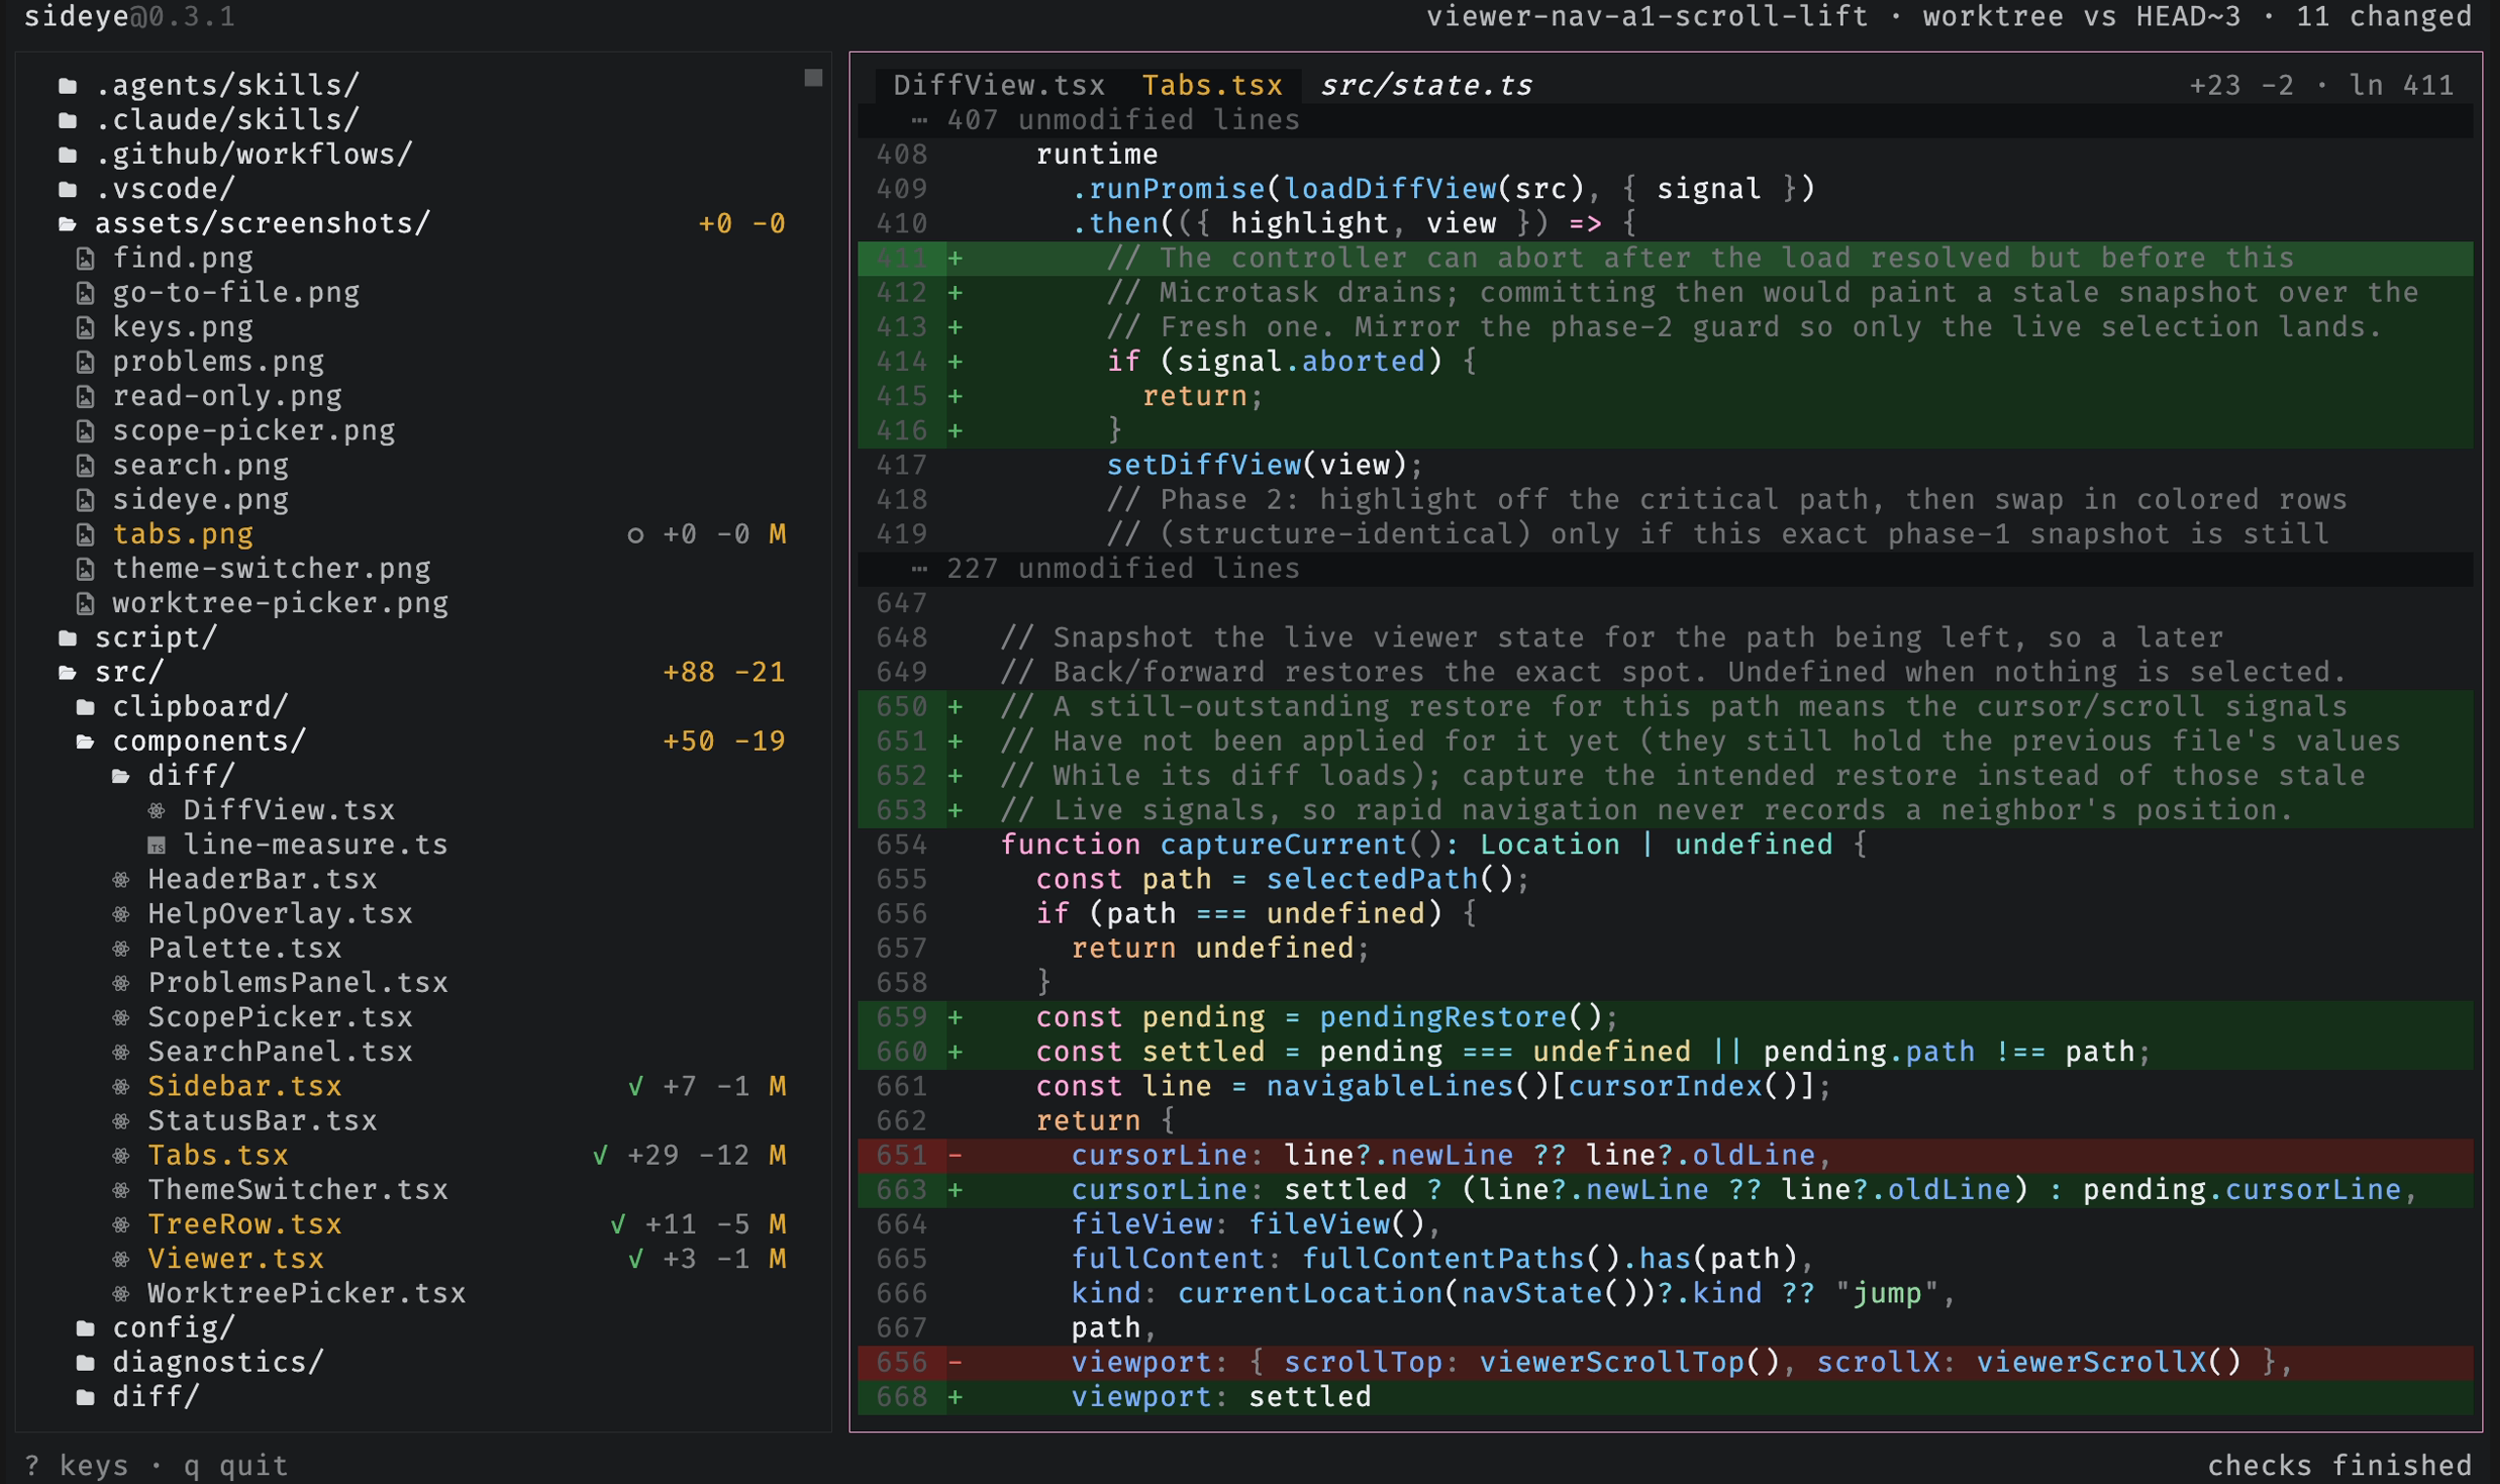
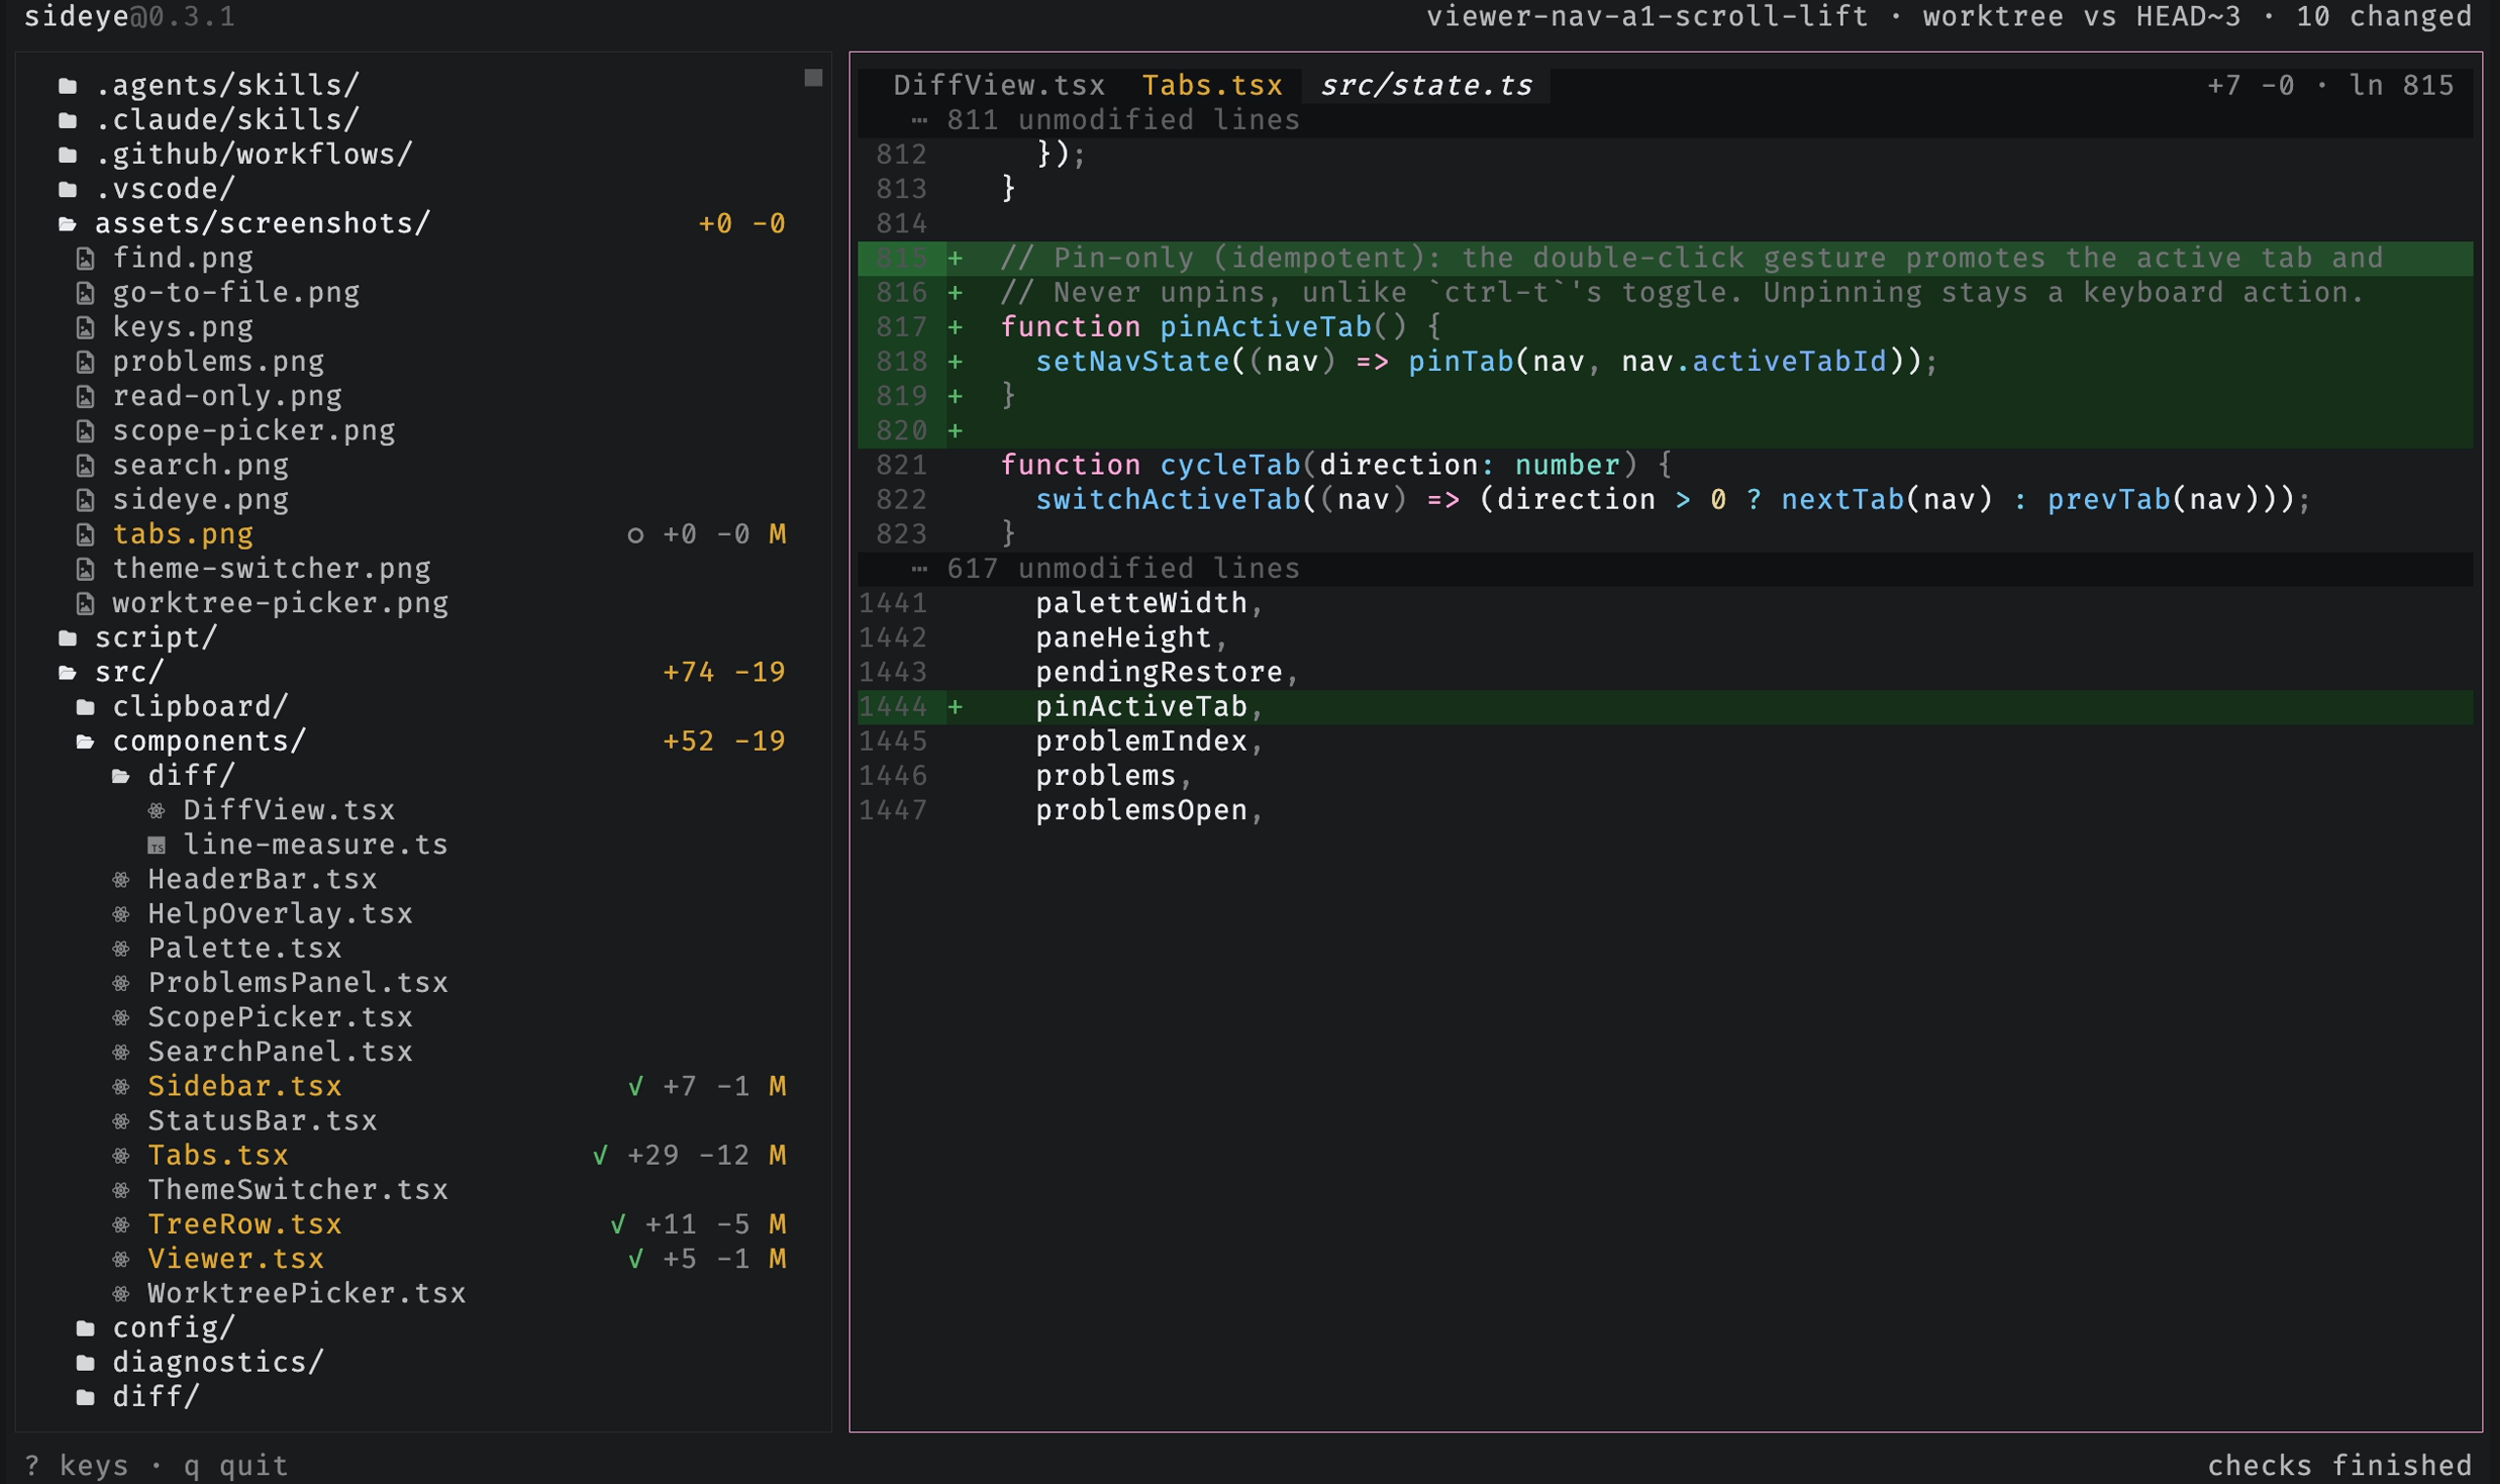
feat(viewer): ✨ darken the header band behind the tab strip
When the tab strip shows, the viewer header becomes the darker panel
band so the active tab (on the body surface) reads as a raised notch
connecting to the content below, while the inactive tabs recede into the
band. A single previewed file keeps the calm body-colored header; the
find bar was already panel, so find and tab modes now match. Gated on
the same condition that shows the strip, reusing one hasTabStrip
accessor.

diff --git a/src/components/Viewer.tsx b/src/components/Viewer.tsx
@@ -98,6 +98,9 @@ export function Viewer() {
   });
 
   const focused = () => state.focusedPane() === "diff";
+  // The strip shows (and the header turns into the panel band) once a tab is
+  // Pinned; a lone preview keeps the calm body-colored header with just the path.
+  const hasTabStrip = () => state.tabItems().some((tab) => !tab.preview);
   const displayedFile = () => {
     const view = state.diffView();
     return view === undefined ? undefined : state.gitModel().changedByPath.get(view.path);
@@ -173,11 +176,12 @@ export function Viewer() {
             justifyContent="space-between"
             paddingLeft={1}
             paddingRight={1}
+            backgroundColor={hasTabStrip() ? theme.colors.surface.panel : undefined}
           >
             {/* The strip earns the row only once a tab is pinned; a lone preview
                 shows the path as before. */}
             <Show
-              when={state.tabItems().some((tab) => !tab.preview)}
+              when={hasTabStrip()}
               fallback={<text fg={theme.colors.text.primary}>{state.selectedPath() ?? ""}</text>}
             >
               <Tabs />

diff --git a/SPEC.md b/SPEC.md
@@ -56,7 +56,7 @@ The viewer is a set of tabs, each an ordered history of Locations (a Location is
 - **Pin/unpin (`ctrl-t`).** Toggles the active tab. Pinning the preview makes it persistent and the next navigation opens a fresh preview; unpinning a pinned tab reverts it to the (sole) preview, discarding any stale preview so exactly one exists. Navigating to a file already open in a _pinned_ tab focuses that tab rather than previewing it, so a file is never in both the preview and a pinned tab. Double-clicking a tab in the strip or a file in the tree pins it too (pin-only, never unpins, unlike `ctrl-t`'s toggle); OpenTUI has no double-click event, so it is detected from successive mouse-downs.
 - **History and tabs (`<`/`>`, `{`/`}`, `ctrl-w`).** `<`/`>` move back/forward within the _active_ tab's own history (no truncation), restoring that entry's exact cursor and scroll. `{`/`}` cycle tabs with wrap; `ctrl-w` closes the active tab — closing the sole remaining tab reverts it to the preview (a view always exists, so the floor is the ephemeral preview).
 - **Remembered position.** A global per-path MRU viewport (cursor file-line + scroll), shared across tabs, is written on every navigate-away. A _fresh_ visit to a path restores its MRU position; back/forward restore the exact spot recorded on the history entry instead. Cursor is a file line (stable across refreshes); scroll is best-effort.
-- **Coherence.** Scope stays a global lens, never captured per tab or per Location. Refresh and scope changes never reset the history (only a `navigate` resets). A worktree switch resets navigation to a single fresh tab seeded with the new worktree's selected file. The tab strip is chrome (non-selectable); a tab's label is tinted by its file's diff status (kind), with the active tab on the body surface (raised, matching the content) and the inactive tabs recessed on the darker panel surface (depth), and the preview italic.
+- **Coherence.** Scope stays a global lens, never captured per tab or per Location. Refresh and scope changes never reset the history (only a `navigate` resets). A worktree switch resets navigation to a single fresh tab seeded with the new worktree's selected file. The tab strip is chrome (non-selectable); a tab's label is tinted by its file's diff status (kind). When the strip shows, the header becomes the darker panel band: the active tab sits on the body surface so it reads as a raised notch connecting to the content below, while the inactive tabs recede into the band; a single tab keeps the calm body-colored header. The preview tab is italic.
 
 ## Content search
 